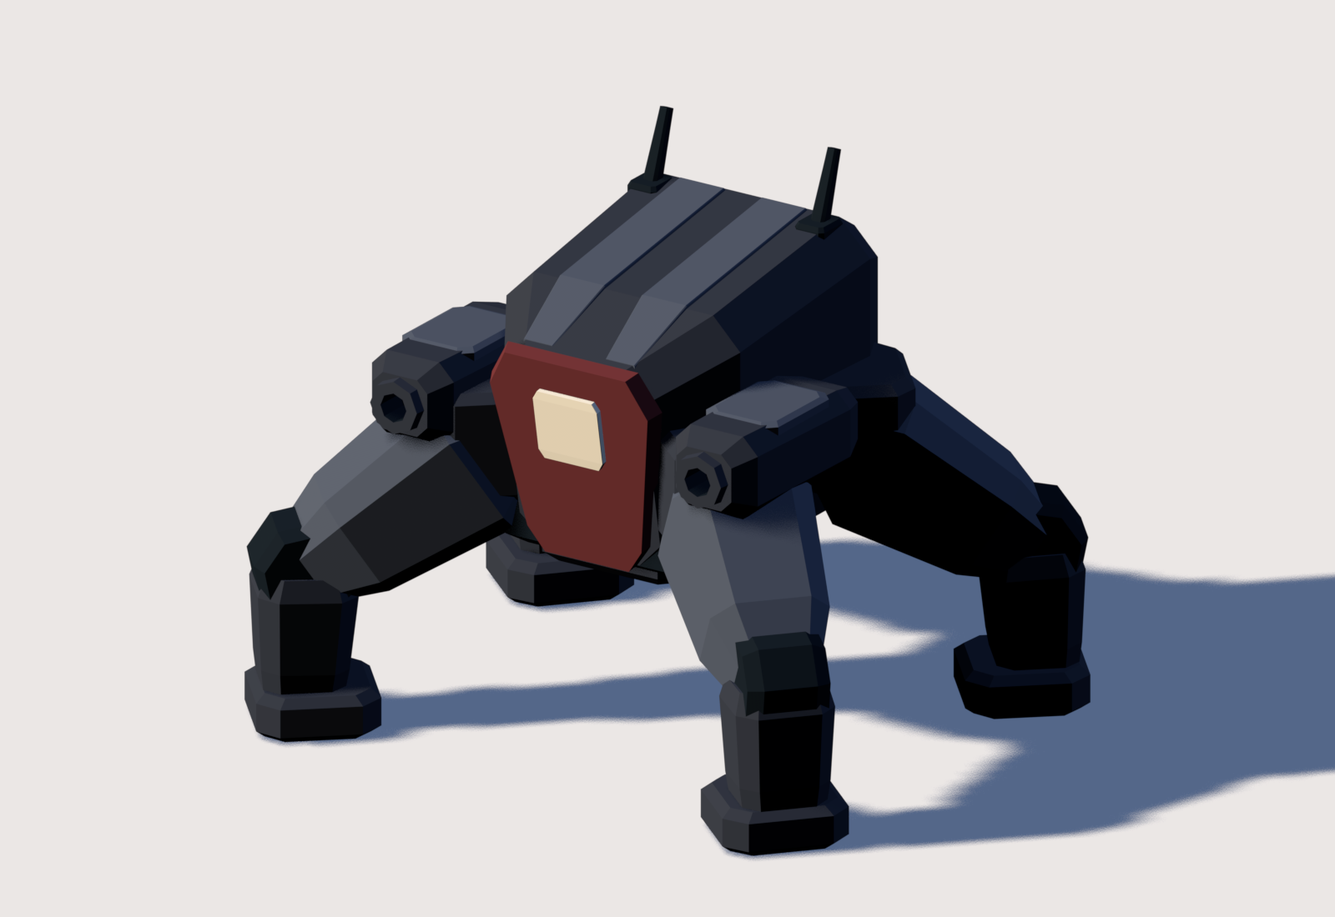
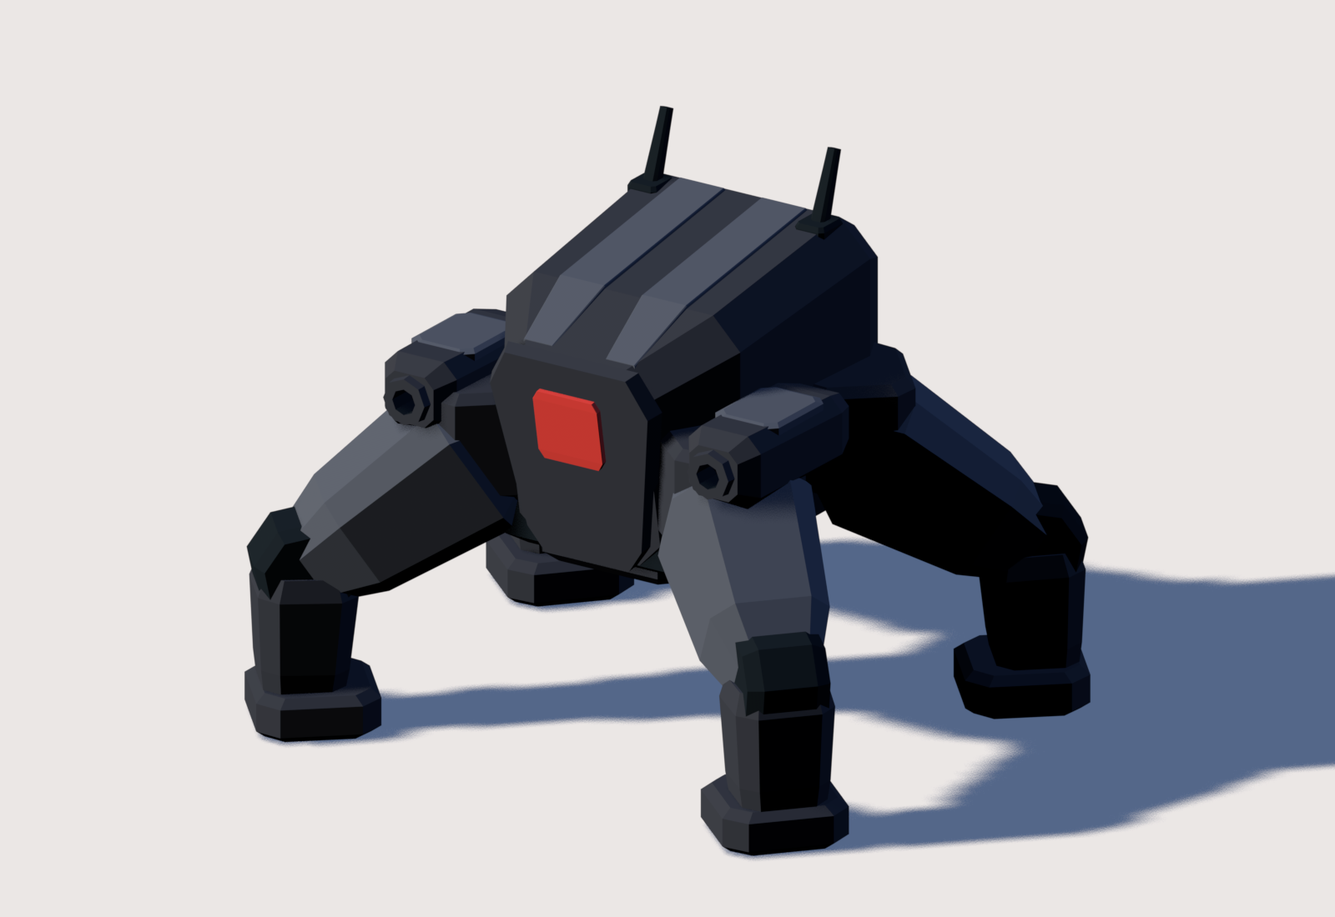
Give C robot charcoal armour, red eye and smaller cannons

diff --git a/apple/sources/content/RobotModelGeometry.swift b/apple/sources/content/RobotModelGeometry.swift
@@ -18,8 +18,8 @@ enum RobotModelGeometry {
     [-0.78, 1.52, -0.28],
   ]
   static let muzzles: [SIMD3<Float>] = [
-    [0.78, 1.52, -0.94],
-    [-0.78, 1.52, -0.94],
+    [0.78, 1.52, -0.8608],
+    [-0.78, 1.52, -0.8608],
   ]
 
   // Rigid-joint calculations retain Blender's local x/y ground plane and z up.

diff --git a/blender/assets/spider-bot-heavy/README.md b/blender/assets/spider-bot-heavy/README.md
@@ -1,6 +1,6 @@
 # spider-bot-heavy
 
-**Status:** The original C form and motion were accepted, integrated and delivered in TestFlight build 29. After a first silhouette refinement, the maintainer said the legs look good and requested a longer body, a slightly taller back and a narrower face. This source and its four PNG previews contain that body pass, pending visual review. The current body pass passes the full check and rendered first-fight test (35/35). It is not an approved or released replacement. A remains a possible later different-weapon variant, outside this task. Camera B remains approved.
+**Status:** The original C form and motion were accepted, integrated and delivered in TestFlight build 29. The maintainer has since accepted the refined body and legs and requested a charcoal face, red sensor and slightly smaller cannons. This source and its four PNG previews contain that finish/cannon revision, awaiting visual review. Its full check and fresh rendered first-fight verification pass (35/35). The preceding body pass at `0148131` passed the full check and rendered first-fight test (35/35); those results do not validate this later revision. It is not merged or released. A remains a possible later different-weapon variant, outside this task. Camera B remains approved.
 
 ![Actual Blender render of the C heavy walker](preview.png)
 
@@ -13,7 +13,7 @@ The earlier [spider-bot](../spider-bot/README.md) remains a rejected historical 
 
 The self-contained `spider-bot-heavy` collection uses metres, stands on z = 0 at its centred origin and faces Blender −y. Its **41 mesh Objects share 17 unique Mesh datablocks**, with **2,492 evaluated triangles and five materials**. Reuse is an authoring property, not measured runtime instancing or draw calls.
 
-The first refinement added a tapered face, sloping roof panels, integrated cannon housings with recessed bores, and stouter knees, lower legs and feet. The current body pass extends the rear shell by **0.20 m**, raises its roof peak by **0.13 m** and narrows the face by **14%**. Antenna meshes are reseated **0.14 m rearward and 0.12 m upward**. Leg and gun geometry, pivots, actions, link lengths and muzzle-marker transforms remain unchanged from the first refinement. The six shared leg-component meshes still have four users each.
+The first refinement added a tapered face, sloping roof panels, integrated cannon housings with recessed bores, and stouter knees, lower legs and feet. The accepted body pass extends the rear shell by **0.20 m**, raises its roof peak by **0.13 m** and narrows the face by **14%**. Antenna meshes are reseated **0.14 m rearward and 0.12 m upward**. The current finish/cannon revision preserves that body and all leg geometry, pivots, actions and link lengths. Its three shared cannon meshes—housing, top plate and barrel—are uniformly **88% of their former dimensions** around the unchanged mounts. The two muzzle markers intentionally move from local y **−0.66 to −0.5808 m** (game z **−0.94 to −0.8608 m**) to meet the shortened barrels. The six shared leg-component meshes still have four users each.
 
 All four legs use the same six shared meshes: socket armour, hip hinge, upper armour, knee hinge, lower link and foot. Editing a component's Mesh in Edit Mode updates its four instances. Moving or posing an Object affects that instance only. Neutral left/right geometry mirrors across x = 0, including material assignments. Proper rotations place each assembly; object scales stay positive and unit. Independently posed legs during a step do not alter this shared geometry.
 
@@ -40,7 +40,7 @@ Connectors sit at `(±0.58, ±0.42, 1.28)` m. Joint pivots meet at their link en
 
 To attach another assembly, select its connector and descendants, duplicate with linked data and place the new connector. Preserve the hierarchy, joint-local origins and unit scales. Make mesh data single-user only for a deliberate new component. Paired roof ridges, antennae, mounts and gun parts also share data. Each gun's separate recoil root carries its housing, plate, barrel and muzzle marker together, providing an attachment point for later variants without building those variants now.
 
-There are no textures, lights, cameras, armatures, constraints, shape keys or runtime solvers in the source. Its five matte Principled materials retain the robot palette: armour `#30343E`, slate `#4B5260`, joints `#151D24`, face `#662E30`, sensor `#E9DFCA`, converted from sRGB to scene-linear, with roughness 1, metallic 0 and emission 0.
+There are no textures, lights, cameras, armatures, constraints, shape keys or runtime solvers in the source. Its five matte Principled materials use armour and face `#30343E`, slate `#4B5260`, joints `#151D24` and red sensor `#C83C38`, converted from sRGB to scene-linear, with roughness 1, metallic 0 and emission 0. The earlier concepts and historical movie retain their burgundy face and pale sensor; they do not show this assigned finish.
 
 ## Motion studies
 
@@ -61,27 +61,27 @@ Firing plants all four feet before recoil starts. Both guns use matching stroke/
 
 ## Review and validation
 
-The retained [30-second motion reel](motion-preview.mp4) is a **historical accepted-rig reference showing the earlier 2,428-triangle form**, not the current refinement. It presents separate labelled shots: walk at 0–8 s, turn left at 8–16 s, turn right at 16–24 s, brace/fire/recover at 24–30 s. It is H.264, 960 × 720, 24 fps, with 720 decoded frames. The current [hero preview](preview.png), [side profile](side-preview.png) and [view beside Miki](scale-preview.png) show the body pass. The [camera B study](camera-b-preview.png) uses the approved offset `[0, 56, 44]` with the existing **15.4° combat lens**, Miki 8 m from the guard, a 3 m camera lean and target height 0.95 m. The normal lens remains 22°. These PNGs are Blender studies, not Simulator screenshots.
+The retained [30-second motion reel](motion-preview.mp4) is a **historical accepted-rig reference showing the earlier 2,428-triangle form and colours**, not the current refinement. It presents separate labelled shots: walk at 0–8 s, turn left at 8–16 s, turn right at 16–24 s, brace/fire/recover at 24–30 s. It is H.264, 960 × 720, 24 fps, with 720 decoded frames. The current [hero preview](preview.png), [side profile](side-preview.png) and [view beside Miki](scale-preview.png) show the charcoal face, red sensor and smaller cannons. The [camera B study](camera-b-preview.png) uses the approved offset `[0, 56, 44]` with the existing **15.4° combat lens**, Miki 8 m from the guard, a 3 m camera lean and target height 0.95 m. The normal lens remains 22°. These PNGs are Blender studies, not Simulator screenshots.
 
 They use the bridge's two suns and an authoring exposure of +0.7. Ground, Miki, lights and cameras exist only in unsaved render copies. Public PNG metadata is removed without changing pixels. The Blender source and movie use Git LFS; PNGs below 1 MiB use ordinary Git under the [storage policy](../../../CONTRIBUTING.md#git-lfs-and-cloning).
 
 **Historical motion-study checks, before this refinement:** `./scripts/check` passed contracts, 51 Blender tests, sound fingerprints, Swift formatting, the shared app build and hosted Simulator tests. Independent saved-file inspection sampled 7,204 poses at 240 Hz, including half-key subframes: stance drift stayed below 0.029 mm, stance yaw drift below 0.000060°, foot tilt below 0.0053° and sole penetration below 0.012 mm. Joint gaps were zero; link-length error was below 0.00000023 m. Neutral geometry/material symmetry error was below 0.00000029 m and mirrored-turn error below 0.0000036 m. Shared-data identity, positive unit scales, topology, part contact, materials, muzzle placement, intake and privacy checks passed. Sampled rendered poses were inspected; all 720 movie frames decoded successfully. Prior static checks remain historical in the [prototype plan](../../../docs/prototype-plan.md#concept-c-proportion-study).
 
-**Current body-pass checks:** Independent saved-file audits confirm closed manifold meshes, positive volumes, neutral geometry/material symmetry and unchanged leg/gun geometry, pivots, actions and muzzle transforms. The leg-motion audit sampled 7,265 poses: sole penetration remained below 0.012 mm, stance sole-height error below 0.029 mm and foot tilt below 0.0053°. The unchanged leg geometry and keys retain that audit through the body pass. These authoring checks do not establish visual acceptance, runtime verification or phone performance.
+**Body-pass authoring checks, before the finish/cannon revision:** Independent saved-file audits confirmed closed manifold meshes, positive volumes, neutral geometry/material symmetry and unchanged leg/gun geometry, pivots, actions and muzzle transforms at `0148131`. The leg-motion audit sampled 7,265 poses: sole penetration remained below 0.012 mm, stance sole-height error below 0.029 mm and foot tilt below 0.0053°. The current revision preserves that leg geometry and its keys, but deliberately changes cannon meshes, muzzle positions and two material colours. A new independent audit verifies all 14 non-gun meshes, recoil pivots, actions and keys are unchanged, the three paired cannon meshes are uniformly scaled to 88%, and each moved muzzle matches its barrel tip. Material conversion, symmetry, closed manifold meshes, positive volumes and export/source fingerprints pass. These are authoring checks, not phone-performance evidence.
 
 The maintainer accepted this source motion and assigned bridge integration. The [first-tower record](../../../docs/encounters/bridge-spider-bot.md) describes the initial gameplay choices and remaining balance questions.
 
 | File | Size in bytes | Storage |
 |---|---:|---|
-| `spider-bot-heavy.blend` | 1,721,852 | Git LFS |
+| `spider-bot-heavy.blend` | 1,721,865 | Git LFS |
 | `motion-preview.mp4` | 1,274,401 | Git LFS |
-| `preview.png` | 356,503 | Ordinary Git |
-| `scale-preview.png` | 443,938 | Ordinary Git |
-| `camera-b-preview.png` | 115,621 | Ordinary Git |
-| `side-preview.png` | 274,612 | Ordinary Git |
+| `preview.png` | 351,960 | Ordinary Git |
+| `scale-preview.png` | 437,071 | Ordinary Git |
+| `camera-b-preview.png` | 115,470 | Ordinary Git |
+| `side-preview.png` | 275,382 | Ordinary Git |
 
 ## Runtime integration
 
 The [runtime USDZ](../../../apple/sources/content/models/spider-bot-heavy.usdz) retains this model's CC BY 4.0 credit and changes. `RobotModelGeometry.swift` is generated alongside it, with both outputs fingerprinted against this Blender source. The output keeps the named leg pivots, gun mounts and muzzle markers; other models retain their existing export path. Runtime stepping follows actual translation and turning, rather than the authoring timeline's travel or reset frames. A remains a later variation, not an extra runtime model.
 
-For the original form shipped in build 29, the standard check, loaded-model joint/muzzle tests and rendered first-fight (35/35), retry (15/15) and full opening (56/56) passed. Runtime gait uses a 1° stop-turn-advance gate and earlier stepping so tested patrol/combat feet remain reachable, with independent FK/stance errors below 0.002 mm. The first refinement at `3d5d810` also passed the full check and rendered first-fight (35/35), with no failures or companion warnings; its generated navigation clearance increased by about 3 mm. The body pass also passes the full check and a fresh rendered first-fight run (35/35), with no failures or companion warnings. Its generated half-height is 1.234272 m; body/navigation radii, joint lengths and muzzle transforms are unchanged from the first refinement. See the [runtime verification](../../../docs/prototype-plan.md#c-body-proportions--awaiting-visual-review). No new TestFlight delivery is claimed. The authoring audits above are not measurements of runtime gait or physical-phone performance.
+For the original form shipped in build 29, the standard check, loaded-model joint/muzzle tests and rendered first-fight (35/35), retry (15/15) and full opening (56/56) passed. Runtime gait uses a 1° stop-turn-advance gate and earlier stepping so tested patrol/combat feet remain reachable, with independent FK/stance errors below 0.002 mm. The first refinement at `3d5d810` also passed the full check and rendered first-fight (35/35), with no failures or companion warnings; its generated navigation clearance increased by about 3 mm. The accepted body pass at `0148131` passed the full check and a fresh rendered first-fight run (35/35), with no failures or companion warnings. Its generated half-height is 1.234272 m. The current finish/cannon revision retains those body/navigation sizes and joint lengths but updates both generated muzzles to match the shorter barrels; it passes the full check, including the real-USDZ joint/muzzle tests, and a fresh rendered first-fight run (35/35), with no failures or companion warnings. Six emitted shots, recovery, defeat and Restart were recorded; frames show the red sensor and smaller cannons. See the [runtime verification](../../../docs/prototype-plan.md#c-body-proportions--awaiting-visual-review). No new TestFlight delivery is claimed. The authoring audits above are not measurements of runtime gait or physical-phone performance.

diff --git a/docs/prototype-plan.md b/docs/prototype-plan.md
@@ -112,11 +112,11 @@ The follow-up review for [PR #134](https://github.com/RonildoBraga/lauder/pull/1
 
 ### C body proportions — awaiting visual review
 
-After build 29 was delivered, the maintainer reported that the robot did not resemble the agreed concept closely enough and assigned improvements. A first refinement revised the tapered mask and roof, integrated chunkier cannons with recessed bores, and strengthened the lower legs, knees and feet. The maintainer then said the legs look good and requested a longer body, a slightly taller back and a narrower face. The current [Blender source and four PNG previews](../blender/assets/spider-bot-heavy/README.md) apply that body pass: rear shell +0.20 m, roof peak +0.13 m and face width −14%, with the antenna meshes reseated +0.14 m rearward and +0.12 m upward. Leg/gun geometry and the rig are preserved. The model retains 41 mesh Objects, 17 shared Mesh datablocks, five materials and 2,492 triangles; the six leg-component meshes still have four users each.
+**Body and legs accepted; finish and cannon-size review pending.** After build 29 was delivered, the maintainer assigned improvements to bring the robot closer to concept C. A first refinement revised the mask, roof, cannon housings and legs. The accepted body pass then extended the rear shell +0.20 m, raised the roof peak +0.13 m and narrowed the face 14%, with the antenna meshes reseated +0.14 m rearward and +0.12 m upward. The maintainer next requested a charcoal face, red sensor and slightly smaller cannons. The current [Blender source and four PNG previews](../blender/assets/spider-bot-heavy/README.md) use face `#30343E`, sensor `#C83C38` and uniformly scale the shared housing/top-plate/barrel meshes to 88% of their previous dimensions around unchanged mounts. Joint/recoil pivots and actions remain unchanged; the two muzzle markers intentionally move from local y −0.66 to −0.5808 m (game z −0.94 to −0.8608 m). The model retains 41 mesh Objects, 17 shared Mesh datablocks, five matte non-emissive materials and 2,492 triangles; the six leg-component meshes still have four users each.
 
-Independent authoring audits pass for mesh closure, positive volumes, symmetry, protected leg/gun geometry and preserved rig data. A 7,265-pose leg-motion audit remains valid because leg geometry and keys are unchanged. The replacement PNGs, including a side profile, show actual body-pass geometry; the camera-B study uses the existing 15.4° combat lens, offset `[0, 56, 44]`, Miki 8 m from the guard and a 3 m lean towards it, at target height 0.95 m. They use the bridge lights and +0.7 authoring exposure and are Blender studies rather than Simulator screenshots. The retained movie shows the earlier accepted form.
+The body-pass authoring audits at `0148131` confirmed mesh closure, positive volumes, symmetry, protected leg/gun geometry and preserved rig data. The 7,265-pose leg-motion audit remains applicable to the unchanged legs and keys; the new independent audit verifies the three paired cannon meshes are uniformly scaled to 88%, both muzzle markers match their barrel tips, all 14 other meshes and the recoil rig/actions are unchanged, and the two requested material colours export correctly. Symmetry, mesh closure, positive volumes and canonical/export fingerprints pass. The replacement PNGs, including a side profile, show the current finish and smaller cannons; the camera-B study uses the existing 15.4° combat lens, offset `[0, 56, 44]`, Miki 8 m from the guard and a 3 m lean towards it, at target height 0.95 m. They use the bridge lights and +0.7 authoring exposure and are Blender studies rather than Simulator screenshots. The retained movie shows the earlier accepted form and its original burgundy/pale colours.
 
-The first refinement at `3d5d810` passed `./scripts/check`, including source/release contracts, 52 Blender tests, sounds, formatting, the app build and hosted Swift Testing with the real-USDZ joint/muzzle and foot regressions. Its rendered `first-fight` passed **35/35**, with zero failures or companion warnings; movement, turns, actual bursts, recovery, defeat and Restart were recorded and frames inspected. Mean frame time was **16.7 ms**, p99 **16.8 ms**, maximum **115.1 ms** on Simulator; these are historical first-refinement results, not verification of the later body pass or phone performance. Runtime/source fingerprints matched that validation. Its generated navigation radius was **2.067892 m** (about 3 mm larger), and body radius **1.298624 m**. The later body pass also passes the full check and a fresh rendered first-fight run (**35/35**) with no failures or companion warnings. Source/runtime fingerprints remain unchanged through validation. Its only generated geometry change is half-height **1.234272 m** (+6 cm); body/navigation radii, joint lengths, muzzle transforms and all leg/gun geometry are unchanged from the first refinement. The new Simulator run measured 16.7 ms mean, 16.8 ms p99 and 33.3 ms maximum; these are not phone measurements. Its visual approval, merge and release have not occurred. Build 29 remains the last TestFlight delivery and contains the previous form.
+The first refinement at `3d5d810` passed `./scripts/check`, including source/release contracts, 52 Blender tests, sounds, formatting, the app build and hosted Swift Testing with the real-USDZ joint/muzzle and foot regressions. Its rendered `first-fight` passed **35/35**, with zero failures or companion warnings; movement, turns, actual bursts, recovery, defeat and Restart were recorded and frames inspected. Mean frame time was **16.7 ms**, p99 **16.8 ms**, maximum **115.1 ms** on Simulator; these are historical first-refinement results, not verification of the later revisions or phone performance. Runtime/source fingerprints matched that validation. Its generated navigation radius was **2.067892 m** (about 3 mm larger), and body radius **1.298624 m**. The body pass at `0148131` also passed the full check and a fresh rendered first-fight run (**35/35**) with no failures or companion warnings. Its source/runtime fingerprints matched throughout validation. Its only generated geometry change was half-height **1.234272 m** (+6 cm); body/navigation radii, joint lengths, muzzle transforms and all leg/gun geometry were unchanged from the first refinement. That Simulator run measured 16.7 ms mean, 16.8 ms p99 and 33.3 ms maximum. The current finish/cannon revision passes `./scripts/check`: 13 contract tests, 28 offline release tests, 52 Blender tests, seven sound fingerprints, Swift formatting, the app build and hosted Swift Testing. Its fresh rendered first-fight test also passes **35/35**, with zero failures or companion warnings and six emitted shots before defeat and Restart. Frames show the red sensor and smaller cannons. Mean frame time was **16.7 ms**, p99 **16.8 ms**, maximum **50.0 ms** on Simulator, not the phone. Source/runtime fingerprints match throughout validation. Visual review of those details, merge and release remain pending. Build 29 remains the last TestFlight delivery and contains the previous form.
 
 ### Architecture checks
 
@@ -163,7 +163,7 @@ The build 26 tuning and measurements in [ADR 0016](decisions/0016-combat-balance
 
 ## Combat design review gate
 
-The original C first-tower runtime prototype is implemented and its source/Simulator checks passed for build 29. First review the pending body proportions against concept C in both the close view and camera B. Their current verification is recorded above. Review whether the short loop is readable and enjoyable; source tests and Simulator success do not settle balance or phone performance. New scenes, A's variant and releases remain separate work.
+The original C first-tower runtime prototype is implemented and its source/Simulator checks passed for build 29. The refined body and legs are accepted; first review the pending finish and cannon size in both the close view and camera B. Their current verification is recorded above. Review whether the short loop is readable and enjoyable; source tests and Simulator success do not settle balance or phone performance. New scenes, A's variant and releases remain separate work.
 
 The broader squad combat direction, [The Quiet Yard](encounters/the-quiet-yard.md) and later narrative plans remain reference rather than assignments. The removed S4 experiments stay retired.
 

diff --git a/README.md b/README.md
@@ -18,7 +18,7 @@ The latest TestFlight delivery is the bridge-only prototype with the Blender env
 
 **Camera and robot, 23 November 2026:** Camera B remains approved: offset `[0, 56, 44]`, 22° lens. C's retained [motion reel](blender/assets/spider-bot-heavy/motion-preview.mp4) records the earlier accepted form and rig studies. Runtime geometry and joint/muzzle measurements come from Blender; fixed-step combat owns decisions and the presenter poses the loaded parts from actual movement and firing. The original standard check and rendered Simulator guard, retry and full-opening routes passed; the [prototype plan](docs/prototype-plan.md#c-robot-on-the-bridge) records that evidence for TestFlight build 29. Physical-phone behaviour and performance remain unverified.
 
-**C body proportions, pending review:** The maintainer said the refined legs look good and requested a longer body, a slightly taller back and a narrower face. The current [Blender source and four PNG previews](blender/assets/spider-bot-heavy/README.md) apply that body pass while preserving the leg and gun geometry, shared components, pivots and motion keys. The current body pass passes the full check and rendered first-fight test (35/35). Its visual approval, merge and release remain pending. Build 29 retains the previous form. A's later variation remains deferred.
+**C finish and cannons, pending review:** The maintainer accepted the refined body and legs, then requested a charcoal face, a red sensor and slightly smaller cannons. The current [Blender source and four PNG previews](blender/assets/spider-bot-heavy/README.md) apply that finish and a 12% reduction in each cannon dimension, preserving the accepted body, legs, joint/recoil rig and motion keys. Muzzle markers move with the shortened barrels. The preceding body pass at `0148131` passed the full check and rendered first-fight test (35/35); the current finish/cannon revision also passes the full check and a fresh rendered first-fight test (35/35). Its visual review, merge and release remain pending. Build 29 retains the previous form. A's later variation remains deferred.
 
 ## Start here
 

diff --git a/docs/visual-direction.md b/docs/visual-direction.md
@@ -67,7 +67,7 @@ The party keeps its colours: Miki `#40A696`, Laura `#E69C4A` and Tom `#6182CF`. 
 
 ### Robot blockout palette
 
-The rejected first robot blockout used asset-specific matte materials from the earlier [dark armed concept](../art/robot/README.md). Its Principled BSDF materials have roughness 1 and metallic 0, with no emission or textures. The palette remains a reference for the [bulkier proportion studies](../art/robot/bulk-studies/README.md); C is now selected for a new [heavy-walker form study](../blender/assets/spider-bot-heavy/README.md), with A retained for a possible later different-weapon variant. These colours apply to the robot's own materials; the existing world palette remains as listed above.
+The rejected first robot blockout used asset-specific matte materials from the earlier [dark armed concept](../art/robot/README.md). Its Principled BSDF materials have roughness 1 and metallic 0, with no emission or textures. The table below records that historical palette, also shown in the [bulkier proportion studies](../art/robot/bulk-studies/README.md) and retained motion reel. It is not the current C finish. A remains a possible later different-weapon variant; the existing world palette is unchanged.
 
 | Part | Base colour |
 |---|---|
@@ -76,6 +76,10 @@ The rejected first robot blockout used asset-specific matte materials from the e
 | Joints and muzzles | `#151D24` |
 | Burgundy face | `#662E30` |
 | Pale sensor | `#E9DFCA` |
+
+### Current C finish
+
+After accepting the refined body and legs, the maintainer requested removal of the reddish-brown face colour and a red sensor. The current [C source and previews](../blender/assets/spider-bot-heavy/README.md) use **charcoal face `#30343E`**, matching the armour, and **red sensor `#C83C38`**. Armour, slate facets and joints otherwise retain the values above. Materials remain matte, with roughness 1, metallic 0 and emission 0; the red square adds no light or glow effect. This finish and the 12% smaller cannons await visual review. Historical artwork, movie colours and build 29 are unchanged.
 
 ## Light and shadow
 
